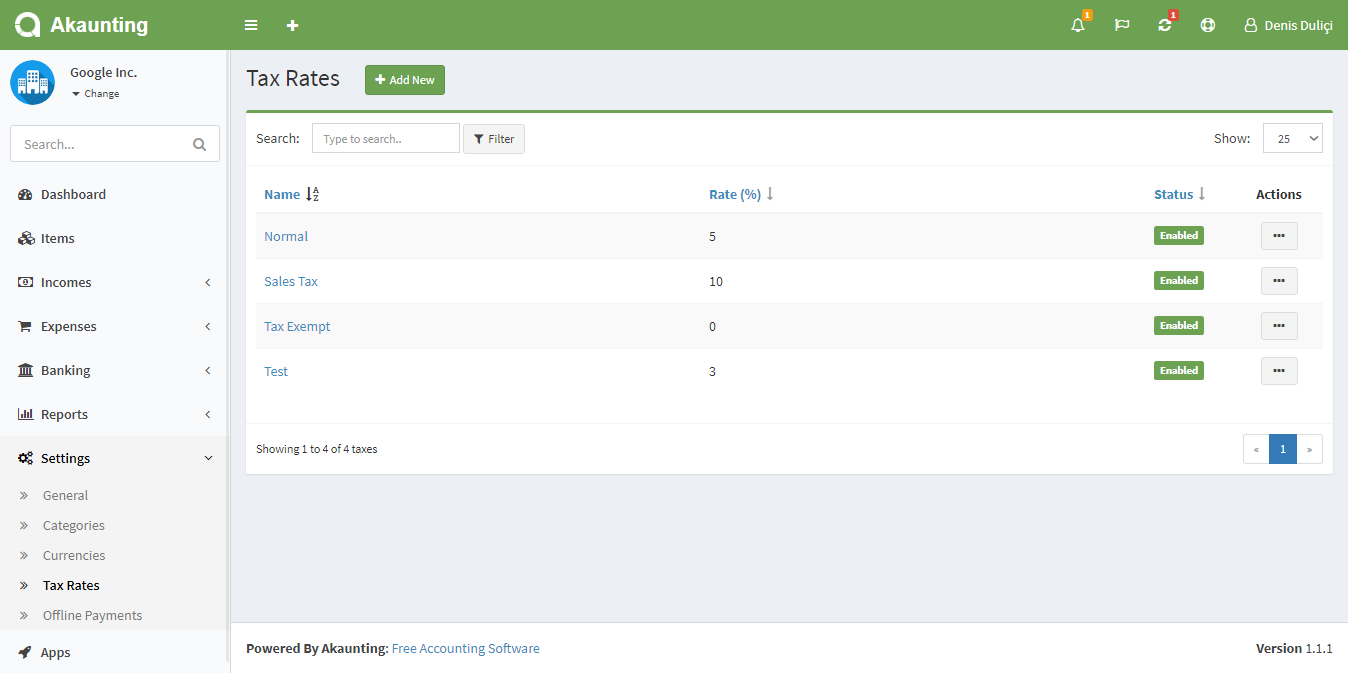
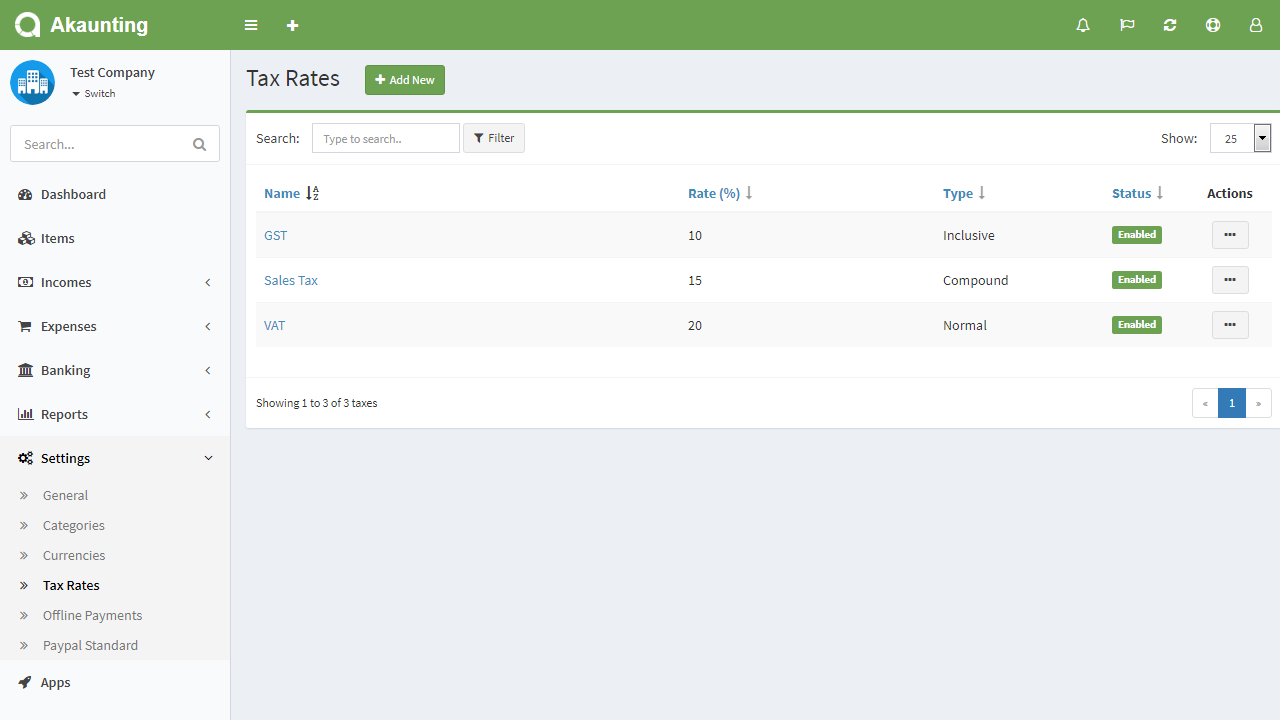
updated taxes

diff --git a/en/user-manual/settings/taxes.md b/en/user-manual/settings/taxes.md
@@ -9,6 +9,7 @@ The following fields are displayed:
 
 - **Name**: Tax's name.
 - **Rate**: Tax's rate.
+- **Type**: Tax's type.
 - **Status**: Status of the tax.
 - **Actions**: You can use this button to edit, and delete the tax.
 
@@ -20,6 +21,7 @@ The following fields are displayed as blank to be filled, some are required and 
 
 - **Name**: Tax's name.
 - **Rate**: Tax's rate as a percentage.
+- **Type**: Tax's type. Inclusive tax is calculated into the price of the item. Compound tax is calculated on top of the other taxes.
 - **Enabled**: Status of the tax.
 
 ![taxes form](_images/taxes_form.png)
